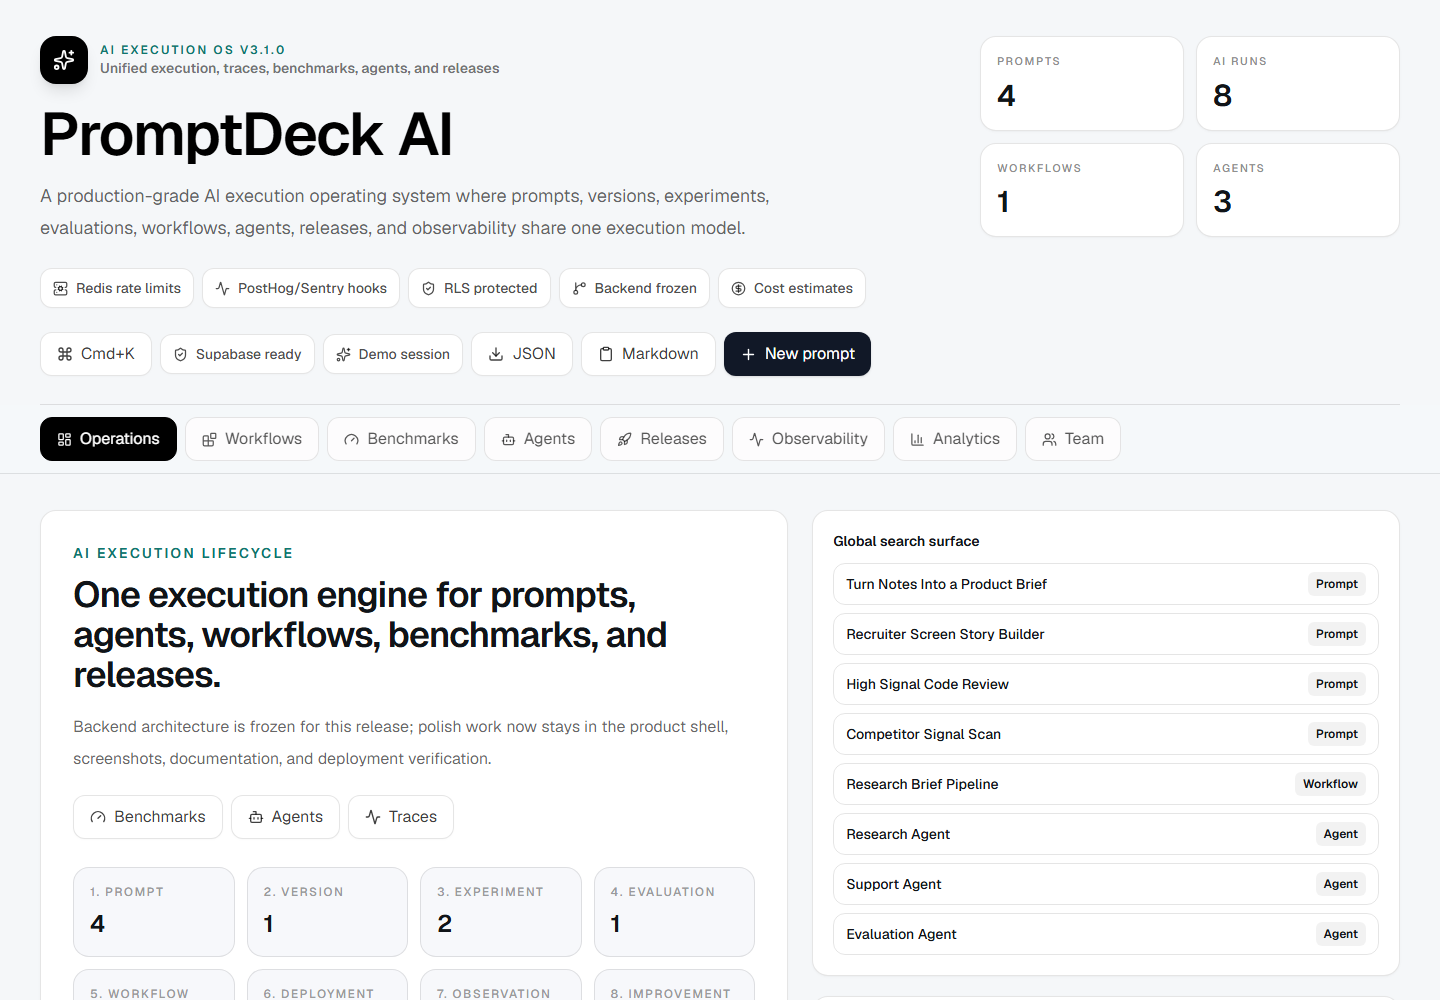
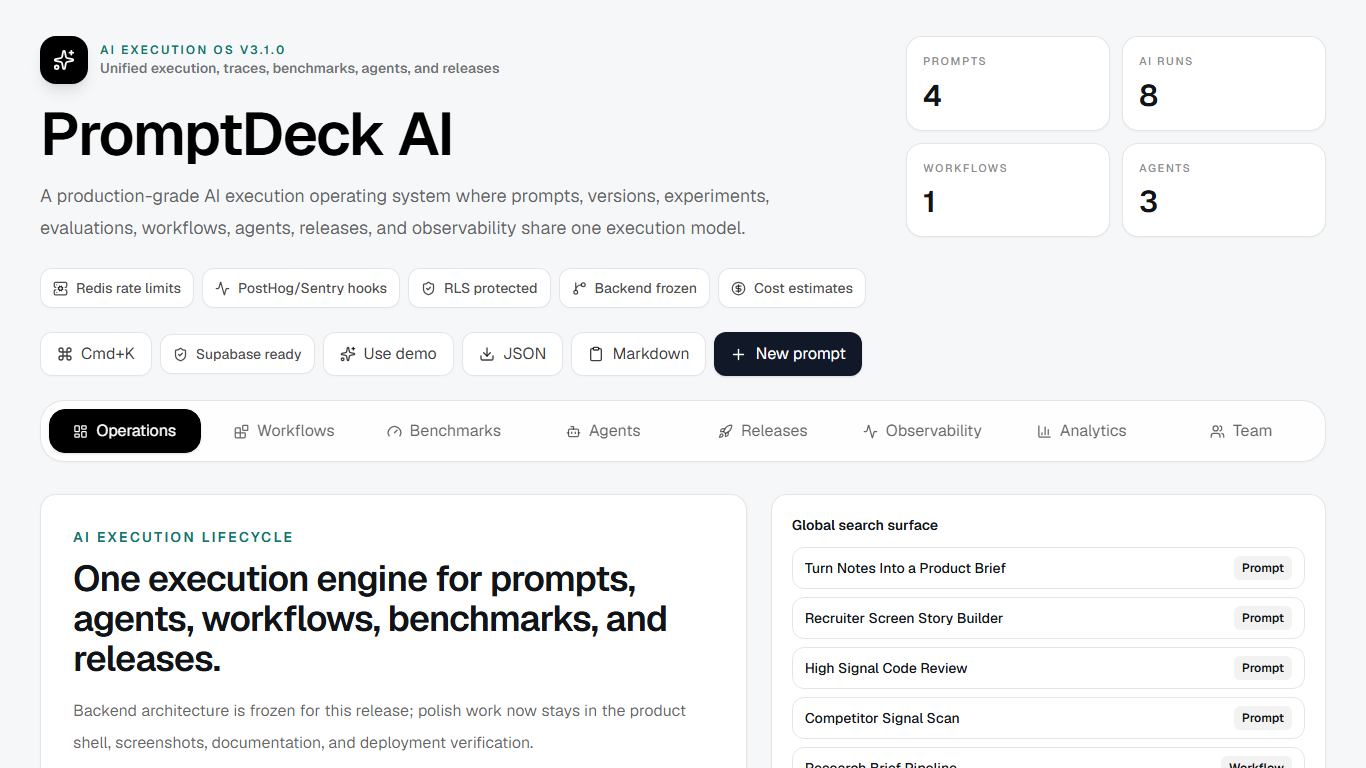
Remove mobile nav scroll artifacts

diff --git a/src/components/prompt-console.tsx b/src/components/prompt-console.tsx
@@ -5769,8 +5769,8 @@ function StatusBadge({
   return (
     <span
       className={clsx(
-        "inline-flex h-10 items-center gap-2 rounded-xl border border-black/10 bg-white px-3 text-sm font-medium text-black/70 shadow-sm shadow-black/[0.02]",
-        className,
+        "h-10 items-center gap-2 rounded-xl border border-black/10 bg-white px-3 text-sm font-medium text-black/70 shadow-sm shadow-black/[0.02]",
+        className ?? "inline-flex",
       )}
     >
       <Icon size={15} aria-hidden="true" />

diff --git a/docs/QA.md b/docs/QA.md
@@ -24,7 +24,7 @@ Coverage:
 - Analytics and Team tabs render from the production build.
 - Shared prompt page renders the public prompt preview.
 - Screenshots were refreshed from a production build on 2026-05-17.
-- Header alignment and mobile metric layout were rechecked after the frontend fit pass; mobile viewport overflow returned `0px`.
+- Header alignment, non-scrolling navigation, and mobile metric layout were rechecked after the frontend fit pass; mobile viewport overflow returned `0px`.
 - Animated demo GIF was generated from real browser frames.
 - Playwright e2e forces demo mode on its own port so tests do not depend on paid AI quota.
 